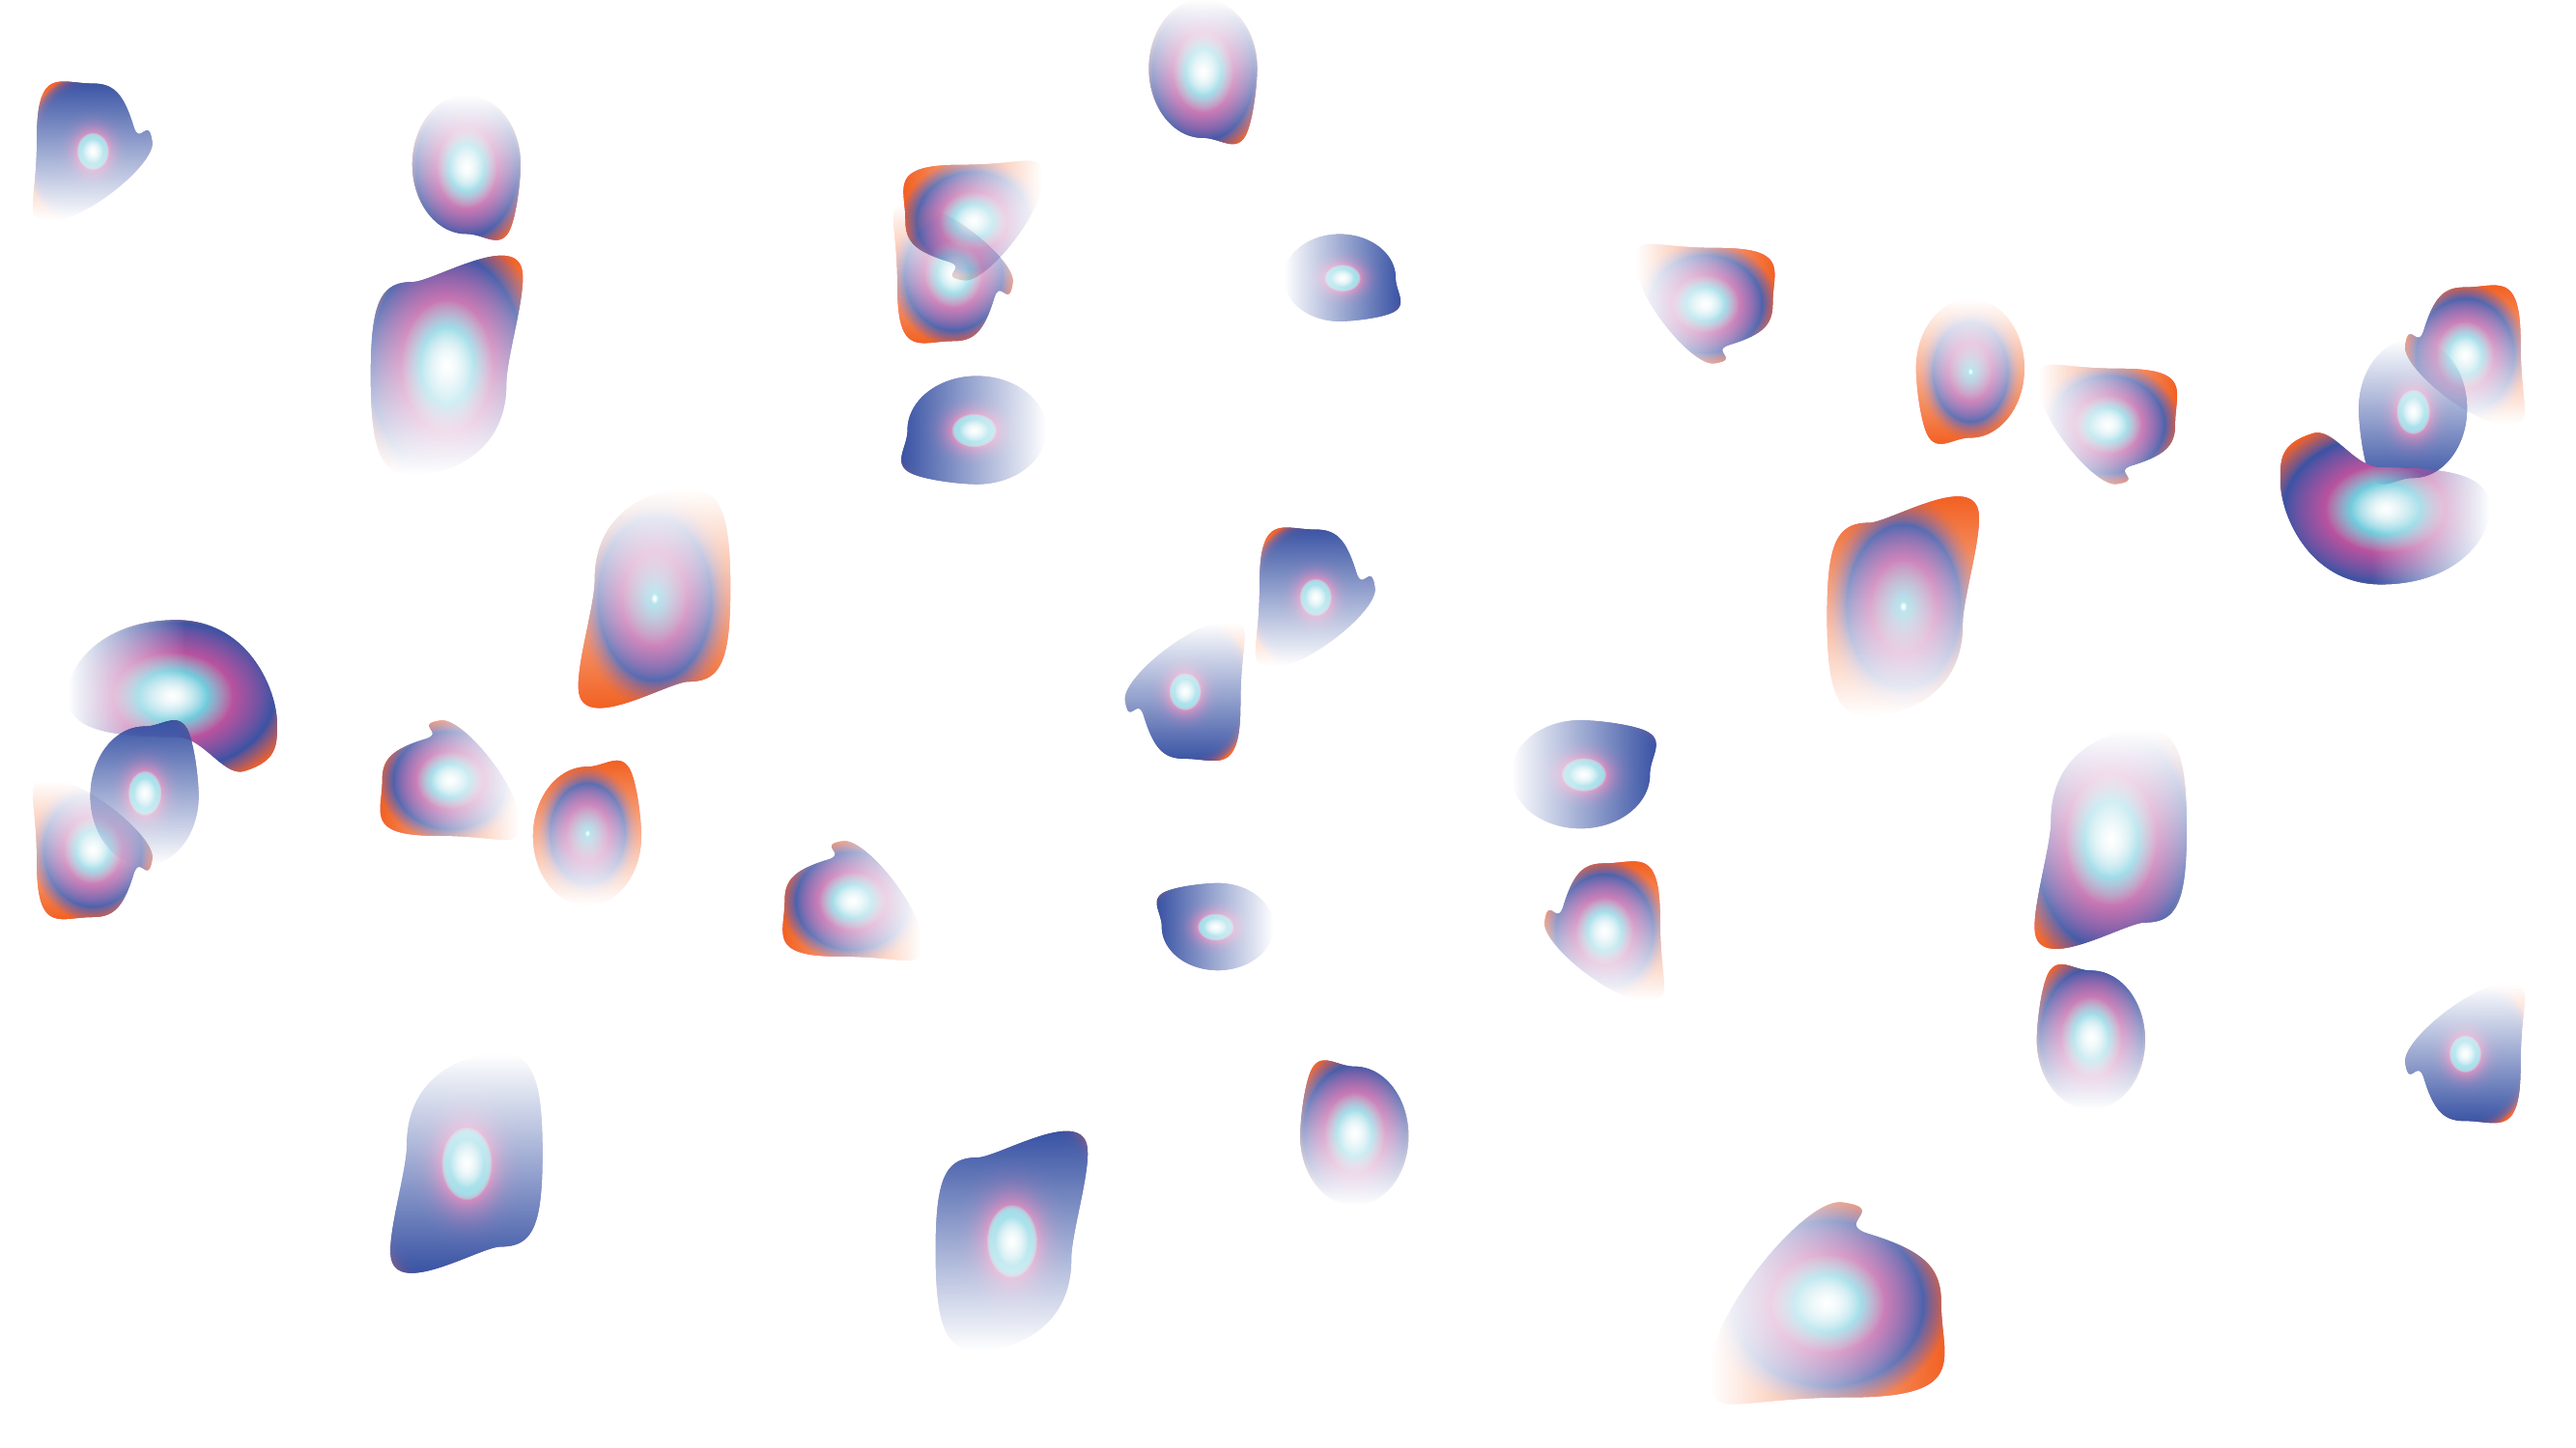
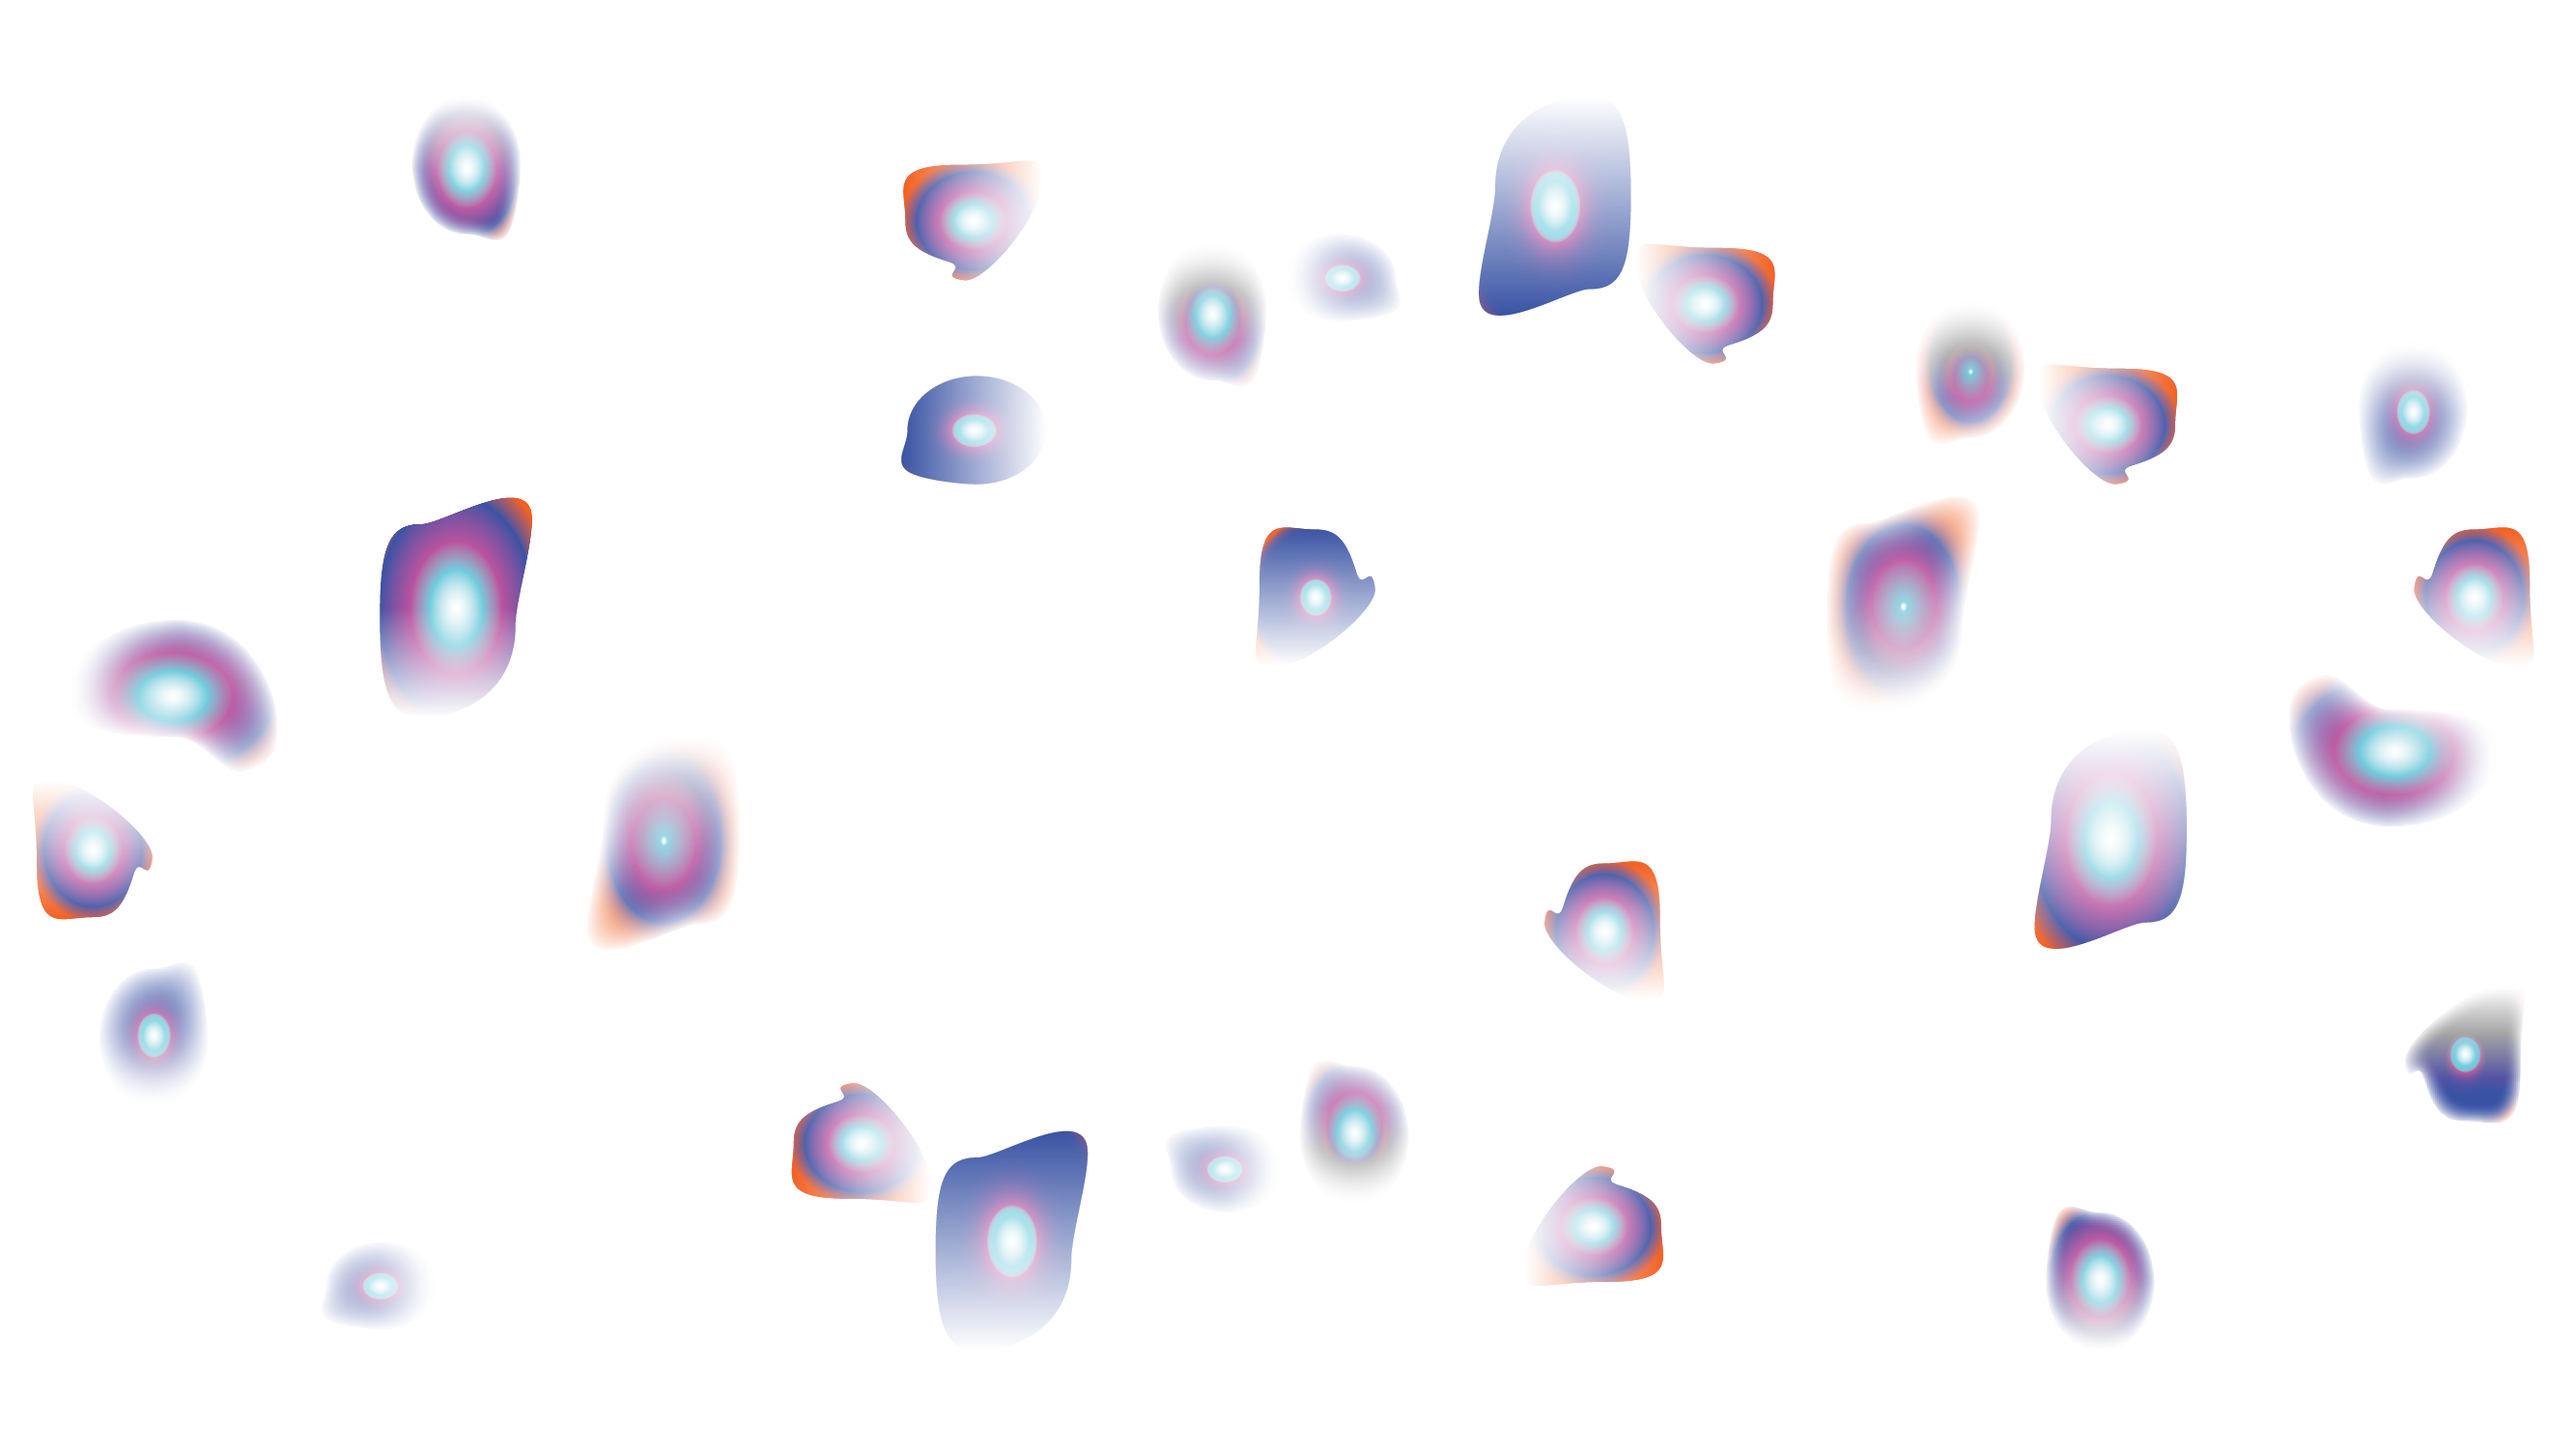
more pages for condensation

diff --git a/condensation/index.html b/condensation/index.html
@@ -2,21 +2,40 @@
 <html lang="en">
     <head>
         <meta charset="utf-8">
-        <title>* * * * condensation * * * *</title>
+        <title>* * * * condensation 0 * * * *</title>
         <link rel="stylesheet" type="text/css" href="condensation.css">
 
     </head>
 
     <body>
-    	<div class="container">
-    		<img src="condense2.png">
-    	</div>
-    	<div class="container">
-    		<img src="condense_black.png">
-    	</div>
+        <div class="bg">
+            <img src="condense_black.png">          
+        </div>
 
-    	<div class="container">
-    		<img src="condense2.png" class="bg">
-    		<img src="condense_black.png" class="bg">    		
-    	</div>
+        <div class="box">
+            <div class="container">
+                <img src="condense.png" class="top">
+            </div>
+            <div class="container">
+                <img src="condense.png" class="top">
+            </div>
+            <div class="container">
+                <img src="condense.png" class="top">
+            </div>
+            <div class="container">
+                <img src="condense.png" class="top">
+            </div>
+            <div class="container">
+                <img src="condense.png" class="top">
+            </div>
+            <div class="container">
+                <img src="condense.png" class="top">
+            </div>
+            <div class="container">
+                <img src="condense.png" class="top">
+            </div>
+            <div class="container">
+                <img src="condense.png" class="top">
+            </div>
+        </div>
     </body>

diff --git a/condensation/index2.html b/condensation/index2.html
@@ -2,19 +2,40 @@
 <html lang="en">
     <head>
         <meta charset="utf-8">
-        <title>* * * * condensation * * * *</title>
+        <title>* * * * condensation 2 * * * *</title>
         <link rel="stylesheet" type="text/css" href="condensation.css">
 
     </head>
 
     <body>
-    	<div class="container">
-    		<img src="condense_black.png" class="bg">    		
+    	<div class="bg">
+    		<img src="condense_black.png">    		
     	</div>
-        <div class="container">
-            <img src="condense2.png" class="top">
-        </div>
-        <div class="container">
-            <img src="condense2.png" class="top">
+
+        <div class="box">
+            <div class="container">
+                <img src="condense2.png" class="top">
+            </div>
+            <div class="container">
+                <img src="condense2.png" class="top">
+            </div>
+            <div class="container">
+                <img src="condense2.png" class="top">
+            </div>
+            <div class="container">
+                <img src="condense2.png" class="top">
+            </div>
+            <div class="container">
+                <img src="condense2.png" class="top">
+            </div>
+            <div class="container">
+                <img src="condense2.png" class="top">
+            </div>
+            <div class="container">
+                <img src="condense2.png" class="top">
+            </div>
+            <div class="container">
+                <img src="condense2.png" class="top">
+            </div>
         </div>
     </body>

diff --git a/condensation/index7.html b/condensation/index7.html
@@ -1,0 +1,46 @@
+<!DOCTYPE html>
+<html lang="en">
+    <head>
+        <meta charset="utf-8">
+        <title>* * * * condensation: 100% * * * *</title>
+        <link rel="stylesheet" type="text/css" href="condensation.css">
+
+    </head>
+
+    <body>
+    	<div class="bg">
+    		<img src="condense_black.png">    		
+    	</div>
+
+        <div class="box">
+            <div>
+                <p>saturation 100%</p>
+                <p>find another coffeeshop</p>
+            </div>
+
+            <div class="container">
+                <img src="condense7.png" class="top">
+            </div>
+            <div class="container">
+                <img src="condense7.png" class="top">
+            </div>
+            <div class="container">
+                <img src="condense7.png" class="top">
+            </div>
+            <div class="container">
+                <img src="condense7.png" class="top">
+            </div>
+            <div class="container">
+                <img src="condense7.png" class="top">
+            </div>
+            <div class="container">
+                <img src="condense7.png" class="top">
+            </div>
+            <div class="container">
+                <img src="condense7.png" class="top">
+            </div>
+            <div class="container">
+                <img src="condense7.png" class="top">
+            </div>
+        </div>
+    </body>

diff --git a/condensation/index3.html b/condensation/index3.html
@@ -1,0 +1,41 @@
+<!DOCTYPE html>
+<html lang="en">
+    <head>
+        <meta charset="utf-8">
+        <title>* * * * condensation 3 * * * *</title>
+        <link rel="stylesheet" type="text/css" href="condensation.css">
+
+    </head>
+
+    <body>
+    	<div class="bg">
+    		<img src="condense_black.png">    		
+    	</div>
+
+        <div class="box">
+            <div class="container">
+                <img src="condense3.png" class="top">
+            </div>
+            <div class="container">
+                <img src="condense3.png" class="top">
+            </div>
+            <div class="container">
+                <img src="condense3.png" class="top">
+            </div>
+            <div class="container">
+                <img src="condense3.png" class="top">
+            </div>
+            <div class="container">
+                <img src="condense3.png" class="top">
+            </div>
+            <div class="container">
+                <img src="condense3.png" class="top">
+            </div>
+            <div class="container">
+                <img src="condense3.png" class="top">
+            </div>
+            <div class="container">
+                <img src="condense3.png" class="top">
+            </div>
+        </div>
+    </body>

diff --git a/condensation/index4.html b/condensation/index4.html
@@ -1,0 +1,41 @@
+<!DOCTYPE html>
+<html lang="en">
+    <head>
+        <meta charset="utf-8">
+        <title>* * * * condensation 4 * * * *</title>
+        <link rel="stylesheet" type="text/css" href="condensation.css">
+
+    </head>
+
+    <body>
+    	<div class="bg">
+    		<img src="condense_black.png">    		
+    	</div>
+
+        <div class="box">
+            <div class="container">
+                <img src="condense4.png" class="top">
+            </div>
+            <div class="container">
+                <img src="condense4.png" class="top">
+            </div>
+            <div class="container">
+                <img src="condense4.png" class="top">
+            </div>
+            <div class="container">
+                <img src="condense4.png" class="top">
+            </div>
+            <div class="container">
+                <img src="condense4.png" class="top">
+            </div>
+            <div class="container">
+                <img src="condense4.png" class="top">
+            </div>
+            <div class="container">
+                <img src="condense4.png" class="top">
+            </div>
+            <div class="container">
+                <img src="condense4.png" class="top">
+            </div>
+        </div>
+    </body>

diff --git a/condensation/index5.html b/condensation/index5.html
@@ -1,0 +1,41 @@
+<!DOCTYPE html>
+<html lang="en">
+    <head>
+        <meta charset="utf-8">
+        <title>* * * * condensation 5 * * * *</title>
+        <link rel="stylesheet" type="text/css" href="condensation.css">
+
+    </head>
+
+    <body>
+    	<div class="bg">
+    		<img src="condense_black.png">    		
+    	</div>
+
+        <div class="box">
+            <div class="container">
+                <img src="condense5.png" class="top">
+            </div>
+            <div class="container">
+                <img src="condense5.png" class="top">
+            </div>
+            <div class="container">
+                <img src="condense5.png" class="top">
+            </div>
+            <div class="container">
+                <img src="condense5.png" class="top">
+            </div>
+            <div class="container">
+                <img src="condense5.png" class="top">
+            </div>
+            <div class="container">
+                <img src="condense5.png" class="top">
+            </div>
+            <div class="container">
+                <img src="condense5.png" class="top">
+            </div>
+            <div class="container">
+                <img src="condense5.png" class="top">
+            </div>
+        </div>
+    </body>

diff --git a/condensation/index6.html b/condensation/index6.html
@@ -1,0 +1,41 @@
+<!DOCTYPE html>
+<html lang="en">
+    <head>
+        <meta charset="utf-8">
+        <title>* * * * condensation 6 * * * *</title>
+        <link rel="stylesheet" type="text/css" href="condensation.css">
+
+    </head>
+
+    <body>
+    	<div class="bg">
+    		<img src="condense_black.png">    		
+    	</div>
+
+        <div class="box">
+            <div class="container">
+                <img src="condense6.png" class="top">
+            </div>
+            <div class="container">
+                <img src="condense6.png" class="top">
+            </div>
+            <div class="container">
+                <img src="condense6.png" class="top">
+            </div>
+            <div class="container">
+                <img src="condense6.png" class="top">
+            </div>
+            <div class="container">
+                <img src="condense6.png" class="top">
+            </div>
+            <div class="container">
+                <img src="condense6.png" class="top">
+            </div>
+            <div class="container">
+                <img src="condense6.png" class="top">
+            </div>
+            <div class="container">
+                <img src="condense6.png" class="top">
+            </div>
+        </div>
+    </body>

diff --git a/condensation/condensation.css b/condensation/condensation.css
@@ -2,8 +2,16 @@ body {
 	background-color:black;
 }
 
+.box {
+	width:3200px;
+	margin-top:-30px;
+}
+
 .container {
-	width:1600px;
+	width:1630px;
+	display:inline-block;
+	margin-left:0px;
+	margin:-20px;
 }
 
 img {
@@ -12,6 +20,7 @@ img {
 }
 
 .bg {
+	width:1600px;
 	position:fixed;
 	z-index:-1;
 }
